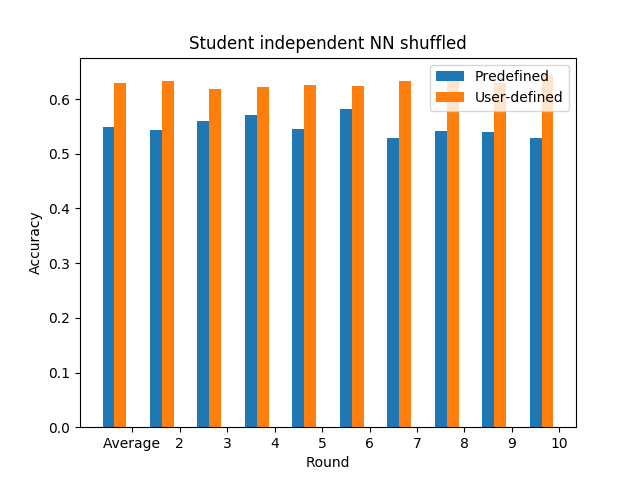
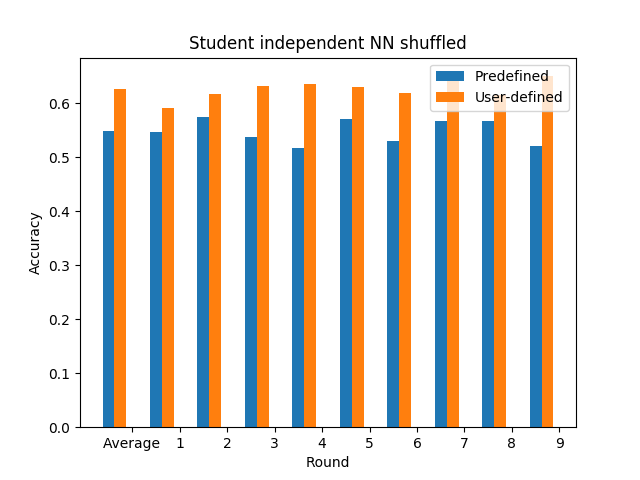
Made improved graph

diff --git a/src/improve.py b/src/improve.py
@@ -242,7 +242,7 @@ def student_independent_shuffled(data, target):
     data = data.drop("VideoID", 1)
 
     kf = KFold(n_splits=9)
-    counter = 1
+    counter = 0
     for train_index, test_index in kf.split(data):
         training_X, testing_X = data.iloc[train_index, :-1], data.iloc[test_index, :-1]
         training_Y, testing_Y = data.iloc[train_index, -1], data.iloc[test_index, -1]
@@ -268,19 +268,19 @@ def student_independent_shuffled(data, target):
 
 def shuffled_nn(df, path):
     # In this method we will take traditional testing measures as in just some percentage of shuffled dataset
-    print("Starting shuffled student dependent predefinedlabels")
-    dependent_scores = student_dependent_shuffled(df, "predefinedlabel")
-    dependent_final = formatter(dependent_scores, "Predefined")
-
-    print("Starting shuffled student dependent user-definedlabels")
-    dependent_scores_user = student_dependent_shuffled(df, "user-definedlabeln")
-    dependent_user_final = formatter(dependent_scores_user, "User-defined")
-
-    dependent_performances = [dependent_final, dependent_user_final]
-
-    reproduce_plotter(path, performances=dependent_performances,
-                      labels=["Average"] + [str(int(x) + 1) for x in dependent_scores.keys()],
-                      x_label="Students", y_label="Accuracy", title="Student dependent NN shuffled")
+    # print("Starting shuffled student dependent predefinedlabels")
+    # dependent_scores = student_dependent_shuffled(df, "predefinedlabel")
+    # dependent_final = formatter(dependent_scores, "Predefined")
+    #
+    # print("Starting shuffled student dependent user-definedlabels")
+    # dependent_scores_user = student_dependent_shuffled(df, "user-definedlabeln")
+    # dependent_user_final = formatter(dependent_scores_user, "User-defined")
+    #
+    # dependent_performances = [dependent_final, dependent_user_final]
+    #
+    # reproduce_plotter(path, performances=dependent_performances,
+    #                   labels=["Average"] + [str(int(x) + 1) for x in dependent_scores.keys()],
+    #                   x_label="Students", y_label="Accuracy", title="Student dependent NN shuffled")
 
     print("Starting shuffled student independent predefinedlabels")
     independent_scores = student_independent_shuffled(df, "predefinedlabel")
